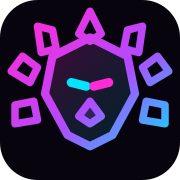
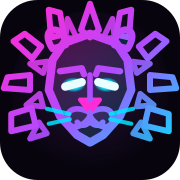
feat(brand): leao majestoso com juba neon + icones regenerados
Redesenho do LionMark: juba em 2 camadas de laminas neon (~18 pontas,
volume real), cara expressiva com sobrancelhas, olhos felinos brilhando,
focinho com nariz triangular + bocheas + boca, bigodes e orelhas.
Mantem o gradiente synthwave magenta->roxo->cyan e a API (size/glow).

- components/brand/lion-mark.tsx: novo desenho
- app/icon.svg: favicon (fonte de verdade) atualizado
- public/icon-192.png, icon-512.png, apple-icon.png: regenerados via sharp
  (inclui o icone da tela inicial do iPhone / PWA)

diff --git a/components/brand/lion-mark.tsx b/components/brand/lion-mark.tsx
@@ -8,15 +8,20 @@ type LionMarkProps = {
 };
 
 /**
- * LionBot symbol — a geometric, synthwave lion head.
- * Angular mane rendered as neon rays with a magenta→cyan stroke gradient.
- * Pure SVG so it scales crisply and carries the brand glow everywhere
- * (navbar, sidebar, auth, favicon source of truth).
+ * LionBot symbol — a majestic synthwave lion head.
+ *
+ * Two-layer neon mane (long outer blades + short inner blades = ~18 points,
+ * giving real volume), an expressive geometric face with fel-line eyes that
+ * glow, ears, a snout with nose + mouth, and whiskers. Magenta→purple→cyan
+ * stroke gradient throughout. Pure SVG so it stays crisp at every size and
+ * carries the brand glow everywhere (navbar, sidebar, auth, favicon source).
  */
 export function LionMark({ size = 28, className, glow = true }: LionMarkProps) {
   const id = useId();
   const stroke = `lm-stroke-${id}`;
   const fill = `lm-fill-${id}`;
+  const maneFill = `lm-mane-${id}`;
+  const eyeGlow = `lm-eye-${id}`;
 
   return (
     <svg
@@ -27,52 +32,106 @@ export function LionMark({ size = 28, className, glow = true }: LionMarkProps) {
       className={className}
       role="img"
       aria-label="LionBot"
-      style={glow ? { filter: "drop-shadow(0 0 8px rgba(255,43,214,0.55))" } : undefined}
+      style={glow ? { filter: "drop-shadow(0 0 9px rgba(255,43,214,0.55))" } : undefined}
     >
       <defs>
-        <linearGradient id={stroke} x1="6" y1="4" x2="42" y2="44" gradientUnits="userSpaceOnUse">
+        <linearGradient id={stroke} x1="5" y1="3" x2="43" y2="45" gradientUnits="userSpaceOnUse">
           <stop offset="0%" stopColor="#ff2bd6" />
-          <stop offset="55%" stopColor="#b14bff" />
+          <stop offset="50%" stopColor="#b14bff" />
           <stop offset="100%" stopColor="#00e5ff" />
         </linearGradient>
-        <linearGradient id={fill} x1="14" y1="14" x2="34" y2="36" gradientUnits="userSpaceOnUse">
-          <stop offset="0%" stopColor="rgba(255,43,214,0.20)" />
-          <stop offset="100%" stopColor="rgba(0,229,255,0.12)" />
+        <linearGradient id={fill} x1="14" y1="13" x2="34" y2="38" gradientUnits="userSpaceOnUse">
+          <stop offset="0%" stopColor="rgba(255,43,214,0.24)" />
+          <stop offset="100%" stopColor="rgba(0,229,255,0.14)" />
         </linearGradient>
+        <radialGradient id={maneFill} cx="50%" cy="46%" r="55%" gradientUnits="objectBoundingBox">
+          <stop offset="0%" stopColor="rgba(177,75,255,0.18)" />
+          <stop offset="100%" stopColor="rgba(177,75,255,0)" />
+        </radialGradient>
+        <radialGradient id={eyeGlow} cx="50%" cy="50%" r="50%">
+          <stop offset="0%" stopColor="#aef9ff" />
+          <stop offset="60%" stopColor="#00e5ff" />
+          <stop offset="100%" stopColor="rgba(0,229,255,0)" />
+        </radialGradient>
       </defs>
 
-      {/* Mane — 8 angular neon rays around the head */}
-      <g stroke={`url(#${stroke})`} strokeWidth="2" strokeLinejoin="round" strokeLinecap="round">
-        <path d="M24 3 27 9 24 11 21 9 Z" />
-        <path d="M38 7 37 14 33 13 34 8 Z" />
-        <path d="M45 19 40 22 38 18 42 15 Z" />
-        <path d="M44 33 38 32 39 27 44 28 Z" />
-        <path d="M10 7 11 14 15 13 14 8 Z" />
-        <path d="M3 19 8 22 10 18 6 15 Z" />
-        <path d="M4 33 10 32 9 27 4 28 Z" />
+      {/* Soft radial wash behind the mane for depth */}
+      <circle cx="24" cy="24" r="21" fill={`url(#${maneFill})`} />
+
+      {/* ── Mane: outer layer — 9 long neon blades ── */}
+      <g stroke={`url(#${stroke})`} strokeWidth="1.6" strokeLinejoin="round" strokeLinecap="round" fill="rgba(177,75,255,0.06)">
+        <path d="M24 1 26.4 8 24 10 21.6 8 Z" />
+        <path d="M35 2.6 34.4 10 31 9.2 32 3.4 Z" />
+        <path d="M13 2.6 13.6 10 17 9.2 16 3.4 Z" />
+        <path d="M44.4 11 39.4 15.6 37 12.4 41.4 9 Z" />
+        <path d="M3.6 11 8.6 15.6 11 12.4 6.6 9 Z" />
+        <path d="M47 23.5 40 24 40 20 46 20.6 Z" />
+        <path d="M1 23.5 8 24 8 20 2 20.6 Z" />
+        <path d="M45 35 38.5 33.5 39.6 28.8 45 30.4 Z" />
+        <path d="M3 35 9.5 33.5 8.4 28.8 3 30.4 Z" />
       </g>
 
-      {/* Head — hexagonal geometric face */}
+      {/* ── Mane: inner layer — 8 short blades filling the gaps ── */}
+      <g stroke={`url(#${stroke})`} strokeWidth="1.5" strokeLinejoin="round" strokeLinecap="round" opacity="0.92">
+        <path d="M30 5 30.5 10 27.4 10.4 Z" />
+        <path d="M18 5 17.5 10 20.6 10.4 Z" />
+        <path d="M40 17 36.5 19.5 35.4 16.4 Z" />
+        <path d="M8 17 11.5 19.5 12.6 16.4 Z" />
+        <path d="M41 28 36.5 28.4 37.4 25 Z" />
+        <path d="M7 28 11.5 28.4 10.6 25 Z" />
+        <path d="M40 37 35.5 35.6 37.6 32.6 Z" />
+        <path d="M8 37 12.5 35.6 10.4 32.6 Z" />
+      </g>
+
+      {/* ── Ears — rounded, sitting above the mane so they read clearly ── */}
+      <path d="M14 13 C12 10 12.5 7.5 15 8 C16.6 8.4 17.4 10 17.5 12 Z" fill="rgba(255,43,214,0.16)" stroke={`url(#${stroke})`} strokeWidth="1.8" strokeLinejoin="round" />
+      <path d="M34 13 C36 10 35.5 7.5 33 8 C31.4 8.4 30.6 10 30.5 12 Z" fill="rgba(0,229,255,0.14)" stroke={`url(#${stroke})`} strokeWidth="1.8" strokeLinejoin="round" />
+
+      {/* ── Head: expressive geometric face ── */}
       <path
-        d="M24 10 L34 15 L36 25 L30 36 L24 39 L18 36 L12 25 L14 15 Z"
+        d="M24 9
+           L31 11.5 L34 16
+           L35 24 L32 31 L27.5 36 L24 38
+           L20.5 36 L16 31 L13 24 L14 16 L17 11.5 Z"
         fill={`url(#${fill})`}
         stroke={`url(#${stroke})`}
         strokeWidth="2.2"
         strokeLinejoin="round"
       />
 
-      {/* Eyes — two neon slits */}
-      <path d="M19 22 L23 23" stroke="#00e5ff" strokeWidth="2.4" strokeLinecap="round" />
-      <path d="M25 23 L29 22" stroke="#ff2bd6" strokeWidth="2.4" strokeLinecap="round" />
+      {/* Brow ridges — angled inward for a fierce, focused look */}
+      <path d="M16 19 L21.8 18.2 22.4 19.8" stroke={`url(#${stroke})`} strokeWidth="1.7" strokeLinecap="round" strokeLinejoin="round" fill="none" />
+      <path d="M32 19 L26.2 18.2 25.6 19.8" stroke={`url(#${stroke})`} strokeWidth="1.7" strokeLinecap="round" strokeLinejoin="round" fill="none" />
 
-      {/* Snout / nose triangle */}
+      {/* ── Eyes: glowing feline slits with a bright core ── */}
+      <ellipse cx="19.6" cy="22.6" rx="3.2" ry="2" fill={`url(#${eyeGlow})`} opacity="0.9" />
+      <ellipse cx="28.4" cy="22.6" rx="3.2" ry="2" fill={`url(#${eyeGlow})`} opacity="0.9" />
+      <path d="M17.4 23.1 L21.8 21.9" stroke="#eafdff" strokeWidth="2.2" strokeLinecap="round" />
+      <path d="M26.2 21.9 L30.6 23.1" stroke="#eafdff" strokeWidth="2.2" strokeLinecap="round" />
+
+      {/* ── Muzzle: two cheek lobes ── */}
       <path
-        d="M24 27 L21 31 L24 33 L27 31 Z"
+        d="M24 31 C21.5 35 17.5 34.5 18 31 C18.3 28.8 21 28.4 24 30 C27 28.4 29.7 28.8 30 31 C30.5 34.5 26.5 35 24 31 Z"
+        fill="rgba(177,75,255,0.12)"
         stroke={`url(#${stroke})`}
-        strokeWidth="2"
+        strokeWidth="1.5"
         strokeLinejoin="round"
-        fill="rgba(177,75,255,0.18)"
       />
+      {/* Nose — solid downward triangle (classic lion muzzle) */}
+      <path d="M21.4 26.6 L26.6 26.6 L24 30 Z" fill="#ff2bd6" stroke="#ff2bd6" strokeWidth="1.2" strokeLinejoin="round" />
+      {/* Bridge from brow line down to nose */}
+      <path d="M24 20 L24 26.6" stroke={`url(#${stroke})`} strokeWidth="1.5" strokeLinecap="round" />
+      {/* Mouth — two curves under the nose */}
+      <path d="M24 30 L24 32.4 M24 32.4 C22.7 33.8 21.4 33.6 20.6 32.6 M24 32.4 C25.3 33.8 26.6 33.6 27.4 32.6"
+        stroke={`url(#${stroke})`} strokeWidth="1.5" strokeLinecap="round" strokeLinejoin="round" fill="none" />
+
+      {/* ── Whiskers ── */}
+      <g stroke="#00e5ff" strokeWidth="1.1" strokeLinecap="round" opacity="0.85">
+        <path d="M18.5 30.4 L12.5 29" />
+        <path d="M18.6 31.8 L13 33" />
+        <path d="M29.5 30.4 L35.5 29" />
+        <path d="M29.4 31.8 L35 33" />
+      </g>
     </svg>
   );
 }
